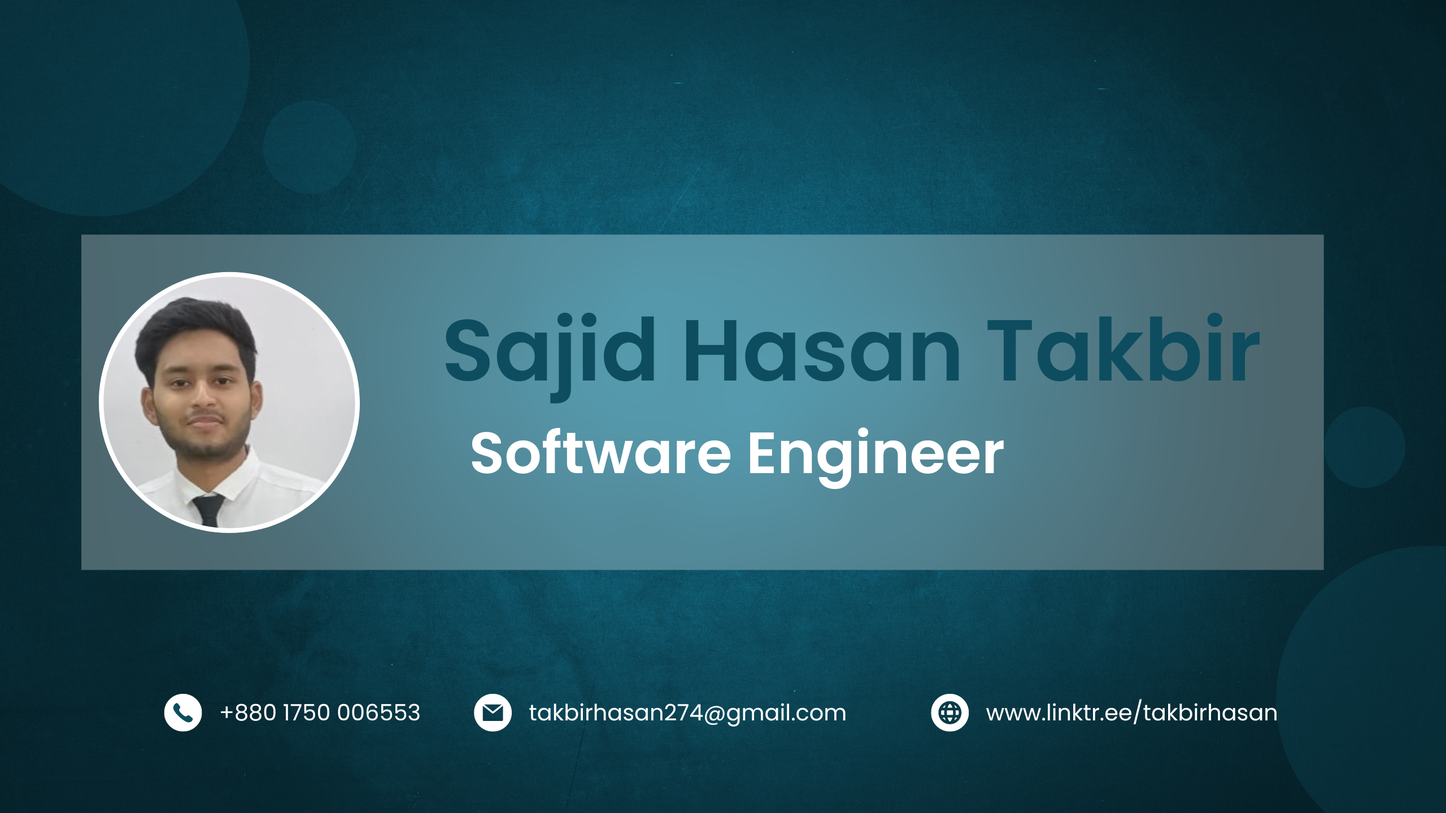
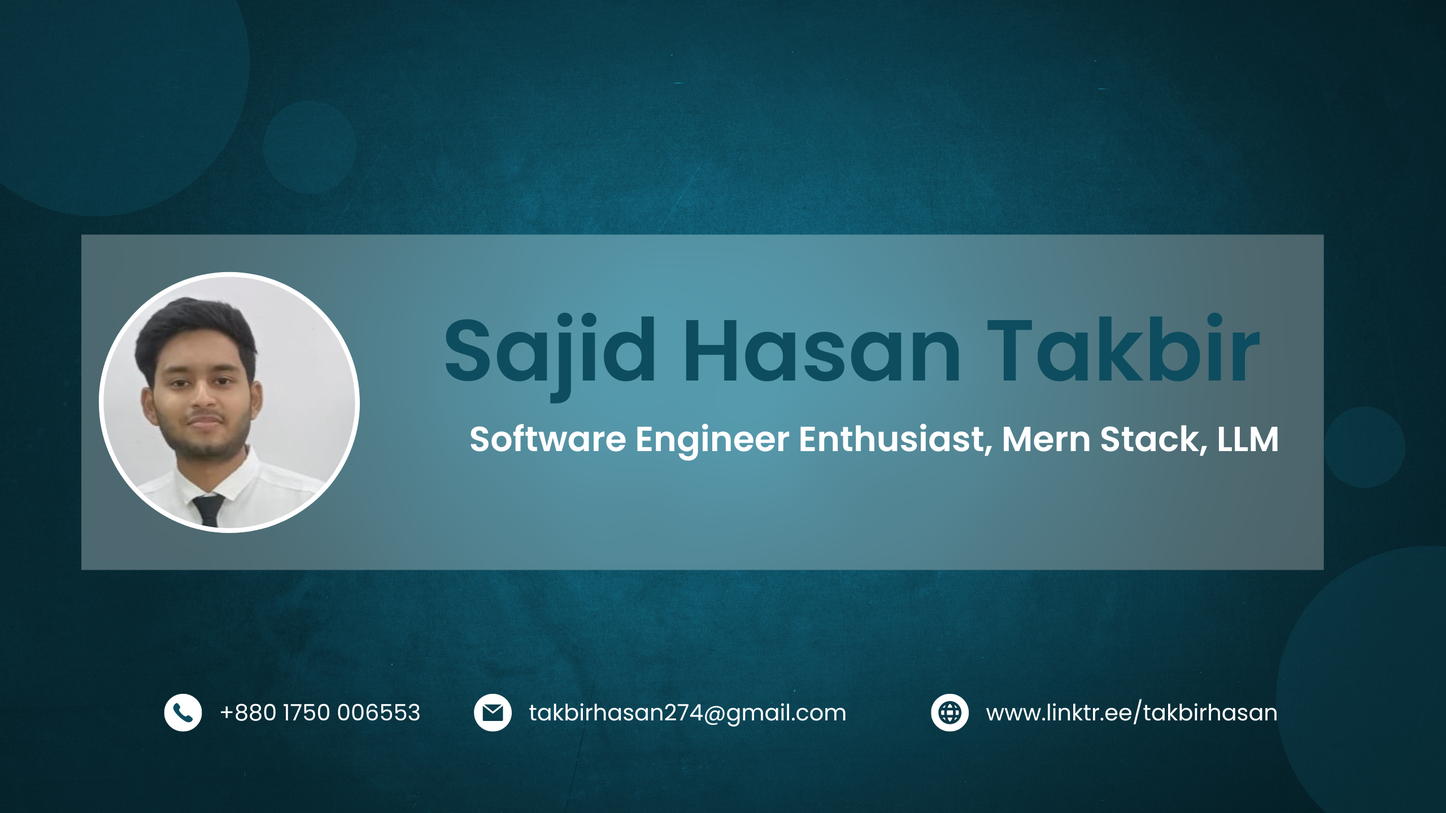
Update README.md to include additional programming languages in the skills section

Changed region(s): [[0.3125, 0.5312, 0.9062, 0.625]]

diff --git a/README.md b/README.md
@@ -13,7 +13,7 @@
 
 - 📝 I regularly write articles on [https://sajidhasantakbir.blogspot.com/](https://sajidhasantakbir.blogspot.com/)
 
-- 💬 Ask me about **C, C++, Java,OOP, Python**
+- 💬 Ask me about **C, C++, Java, OOP, Python, ML, LLM**
 
 - 📫 How to reach me **takbirhasan274@gmail.com**
 
